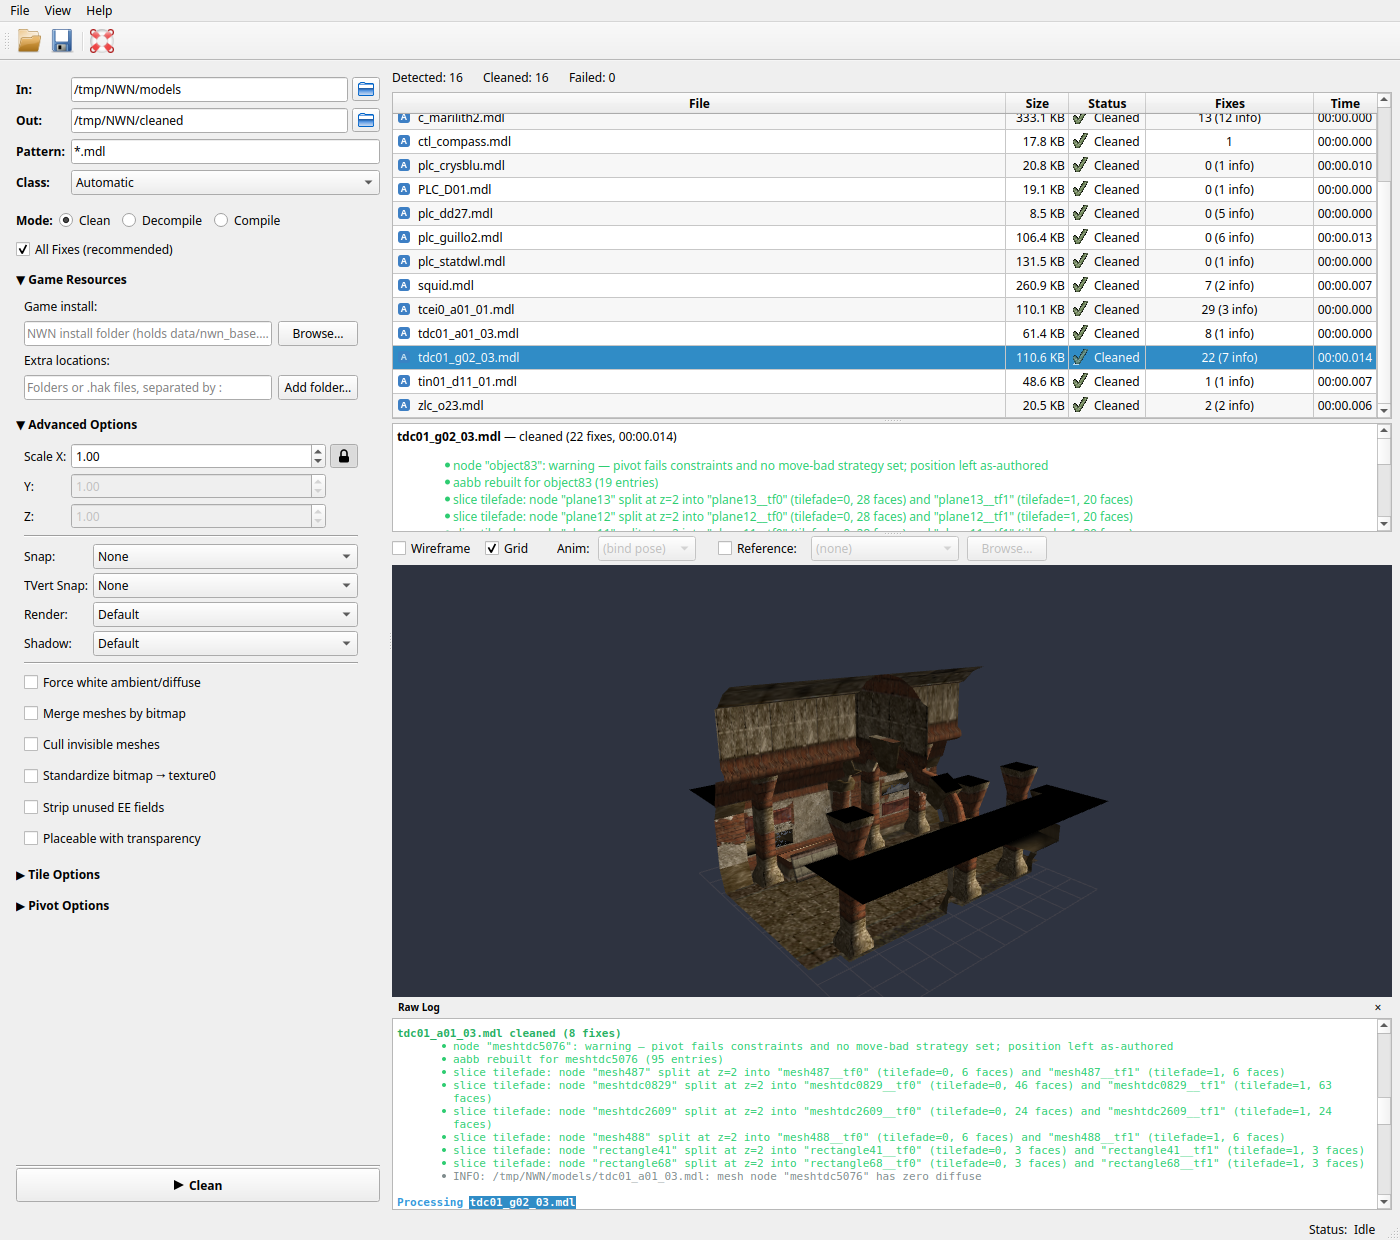
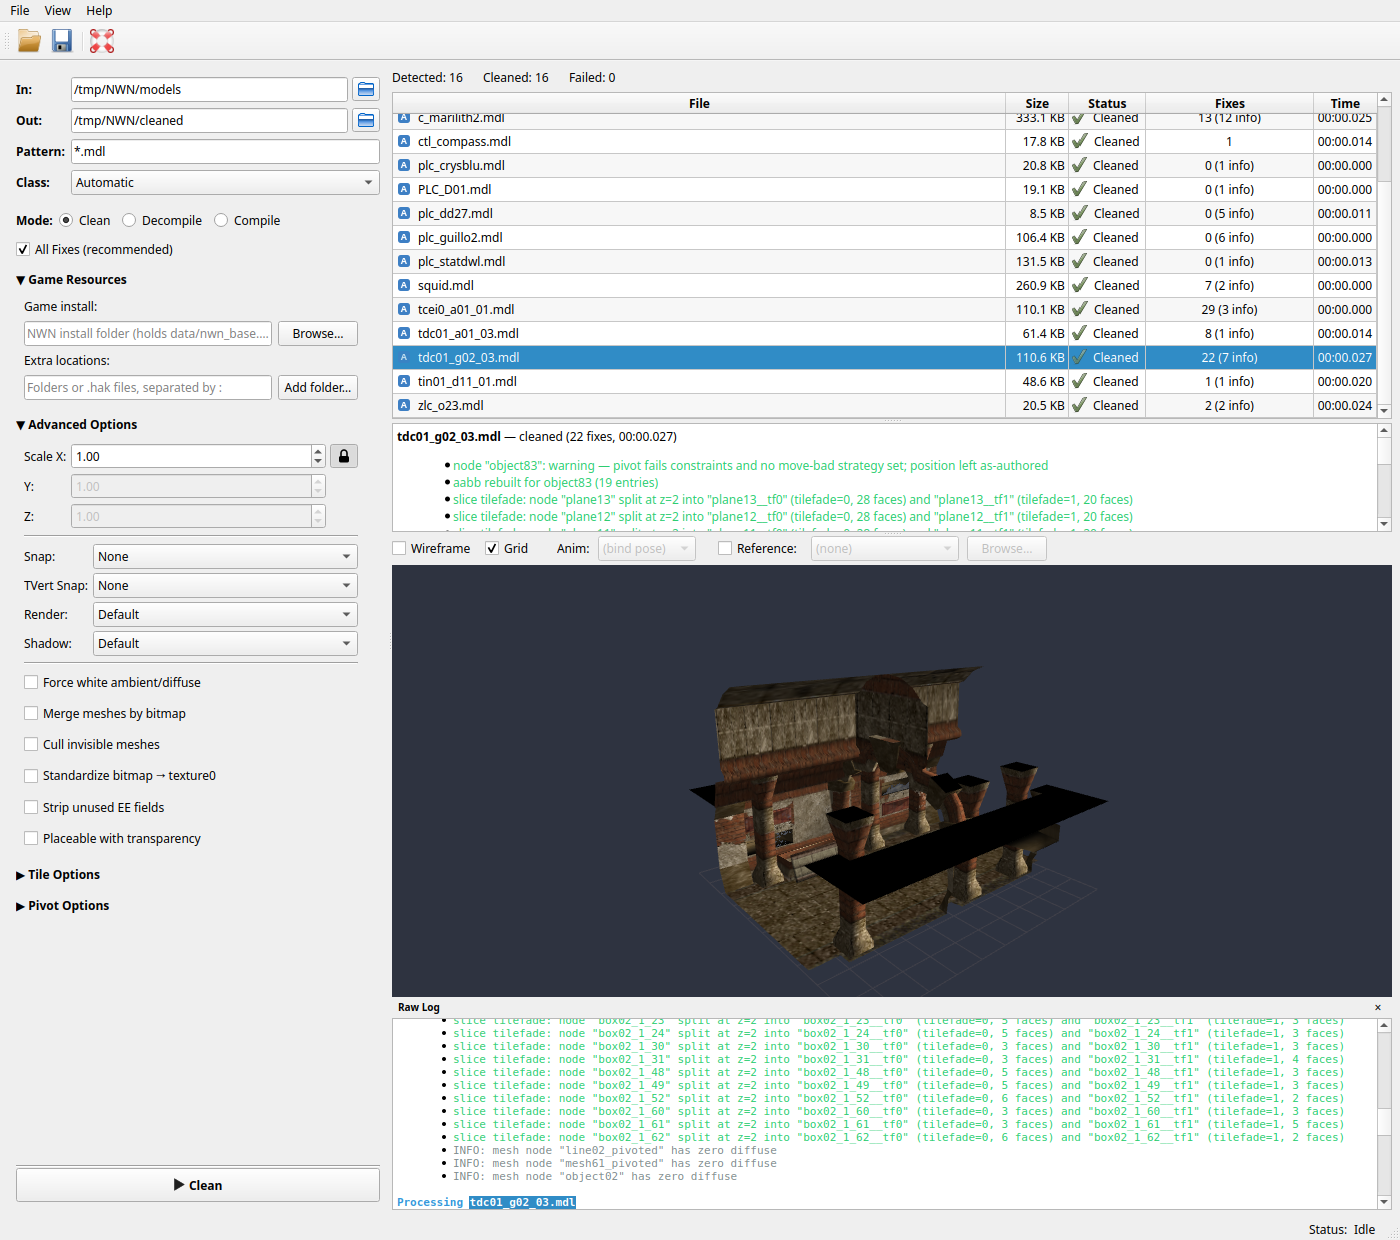
docs: re-take the app screenshots from the build the next release is cut from
Re-taken from a build of main (240f93f, which has #12): the details pane and the
Raw Log no longer start every INFO line with the file's full path. The screenshots
README names v1.1.1.

diff --git a/docs/screenshots/README.md b/docs/screenshots/README.md
@@ -1,7 +1,7 @@
 # Screenshots
 
-Images used in the README, taken from the released cleanmodels-qt v1.1.0 (with the bundled cleanmodels
-v4.2.0) running on a virtual display, so nothing else from the desktop is in them and no personal paths
+Images used in the README, taken from a build of cleanmodels-qt v1.1.1 (with the bundled cleanmodels
+v4.2.1) running on a virtual display, so nothing else from the desktop is in them and no personal paths
 appear (the demo folders are under `/tmp`).
 
 - The models are files from cleanmodels' `tests/fixtures/oracle/ascii`; the textures in the 3D preview
